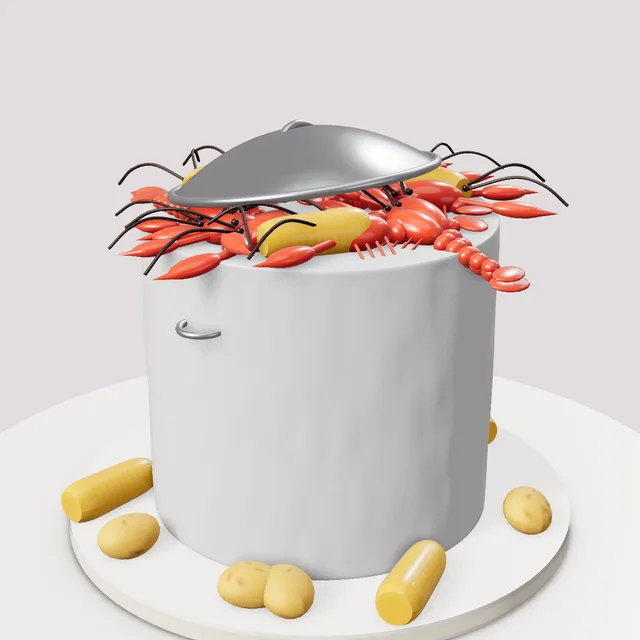
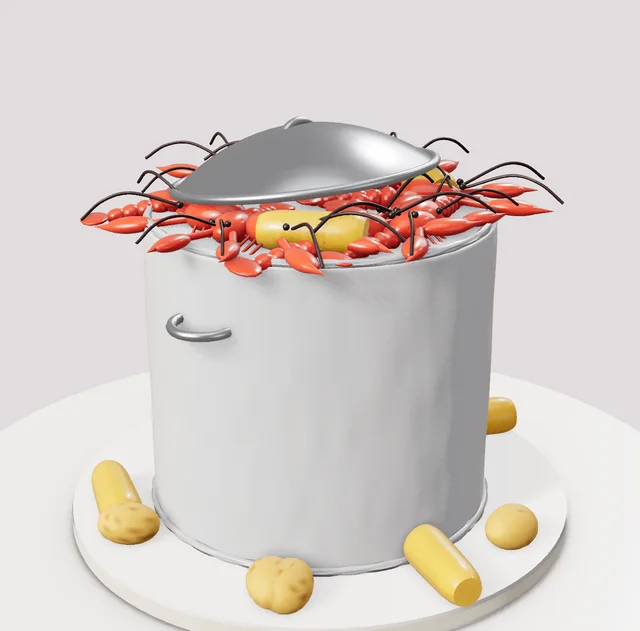
Signature cakes round 3: sports pieces fit, ruffles pearls and lace, crawfish pot rim
Claude-Session: https://claude.ai/code/session_016sN14hzH19WJ5zrp8o2QGp

diff --git a/studio.html b/studio.html
@@ -1573,10 +1573,10 @@ THEMES.unshift(
   newTier(7.5,3.2,{shape:'square',color:'#fbf7f1',finish:'fondant',texture:'ruffle',prof:'pillow',top:'none',bottom:'scrolls',bottomColor:'#d4ae5a'}),
   newTier(5.5,3.4,{color:'#c9ccd2',texture:'rosettes',prof:'dome',top:'none',bottom:'none',decor:[DC('roses','cluster',10,{color:'#fbf7f1',size:130})]})]}},
  {key:'sig_ruffles',name:'Forever Ruffles',tag:SIG,blurb:'Four ivory fondant tiers with a sweep of ruffles, a lace band and a clean top tier ready for your script topper.',d:{board:'silver',topper:'none',tiers:[
-  newTier(10,5,{color:'#fbf8f2',finish:'fondant',texture:'ruffle',top:'none',bottom:'none'}),
-  newTier(8,4.8,{color:'#fbf8f2',finish:'fondant',texture:'ruffle',top:'none',bottom:'none'}),
-  newTier(7,4.6,{color:'#fbf8f2',finish:'fondant',top:'none',bottom:'none',stencil:{pattern:'lace',color:'#e3d6c4',size:1.8,height:2}}),
-  newTier(6,5,{color:'#fbf8f2',finish:'fondant',top:'none',bottom:'none'})]}},
+  newTier(10,5,{color:'#fbf8f2',finish:'fondant',texture:'ruffle',top:'pearls',pipe:'#fbf8f2',bottom:'pearls',bottomColor:'#fbf8f2'}),
+  newTier(8,4.8,{color:'#fbf8f2',finish:'fondant',texture:'ruffle',top:'pearls',pipe:'#fbf8f2',bottom:'pearls',bottomColor:'#fbf8f2'}),
+  newTier(7,4.6,{color:'#fbf8f2',finish:'fondant',top:'pearls',pipe:'#fbf8f2',bottom:'pearls',bottomColor:'#fbf8f2',stencil:{pattern:'lace',color:'#cdb89a',size:2.2,height:3.2,y:.6}}),
+  newTier(6,5,{color:'#fbf8f2',finish:'fondant',texture:'dimple',top:'pearls',pipe:'#fbf8f2',bottom:'pearls',bottomColor:'#fbf8f2',decor:[DC('roses','crown',6,{color:'#fbf8f2',size:120})]})]}},
  {key:'sig_rosegold',name:'Rose Gold Jewels',tag:SIG,blurb:'Six tiers of quilted ivory, jeweled chain swags, a rose gold glitter tier and a rhinestone brooch burst.',d:{board:'rosegold',topper:'none',tiers:[
   newTier(12,5,{color:'#fbf8f2',finish:'fondant',side:'quilted',sideColor:'#fbf8f2',pearlColor:'#d9a08a',top:'none',bottom:'pearls',bottomColor:'#d9a08a',decor:[DC('brooch','band',1,{color:'#d9a08a',size:190,R:6,rot:95})]}),
   newTier(10,4.6,{color:'#fbf8f2',finish:'fondant',top:'none',bottom:'pearls',bottomColor:'#d9a08a'}),
@@ -1589,14 +1589,14 @@ THEMES.unshift(
   newTier(7.5,6.2,{color:'#6fb3e8',finish:'fondant',ombre:true,ombreColor:'#eef6fc',top:'none',bottom:'none',decor:[DC('clouds','scatter',12,{color:'#fbf7f1',size:150}),DC('buttons','cascade',46,{color:'#d4ae5a',rot:-25,size:150,wide:1.5})]}),
   newTier(6,5.6,{color:'#6fb3e8',finish:'fondant',ombre:true,ombreColor:'#eef6fc',top:'none',bottom:'none',decor:[DC('clouds','scatter',10,{color:'#fbf7f1',size:150}),DC('balloon','cluster',1,{color:'#7fb0e8',size:400,center:true,face:95}),DC('teddy','cluster',1,{color:'#fbf7f1',size:170,face:95})]})]}},
  {key:'sig_sports',name:'All-Star Sports Number',tag:SIG,blurb:'A field-green number cake with a soccer ball, baseball and glove, basketball, football and a wooden bat.',d:{cakeType:'number',number:{text:'2',height:13,layers:2,cake:'vanilla',cream:'#4f9a4a',style:'frosted'},board:'white',boardColor:'#e8762c',topper:'none',tiers:[
-  newTier(8,4,{decor:[DC('soccerball','cluster',1,{size:360}),DC('baseball2','cluster',1,{size:320}),DC('glove','cluster',1,{size:380}),DC('hoopball','cluster',1,{size:360}),DC('football','cluster',1,{size:330}),DC('bat','cluster',1,{size:250})]})]}},
+  newTier(8,4,{decor:[DC('glove','cluster',1,{size:300}),DC('hoopball','cluster',1,{size:270}),DC('soccerball','cluster',1,{size:250}),DC('football','cluster',1,{size:250}),DC('baseball2','cluster',1,{size:230}),DC('bat','cluster',1,{size:200}),DC('sprinkles','cluster',200,{mix:['#fbf7f1','#f2c230','#e8762c']})]})]}},
  {key:'sig_blocks',name:'Building Block Number',tag:SIG,blurb:'A sunny yellow number 6 with a blue window, a mosaic wall of toy bricks around the side, rainbow sprinkles and bricks on top.',d:{cakeType:'number',number:{text:'6',height:13,layers:2,cake:'vanilla',cream:'#f6c919',style:'frosted',wall:['#e8475f','#2f6fd0','#f2c230','#5cc06c','#2f6fd0','#e8475f','#2a7a3a'],wallH:.95,holeFill:'#2f6fd0'},board:'white',boardColor:'#2f3f6b',topper:'none',tiers:[
   newTier(8,4,{decor:[DC('bricks','cluster',18,{size:250,mix:['#e8475f','#2f6fd0','#5cc06c']}),DC('sprinkles','cluster',260,{mix:['#e8475f','#2f6fd0','#5cc06c','#f28a3a','#fbf7f1']})]})]}},
  {key:'sig_movie',name:'Movie Night Popcorn',tag:SIG,blurb:'A red and white striped popcorn tier overflowing with popcorn and a "13" Admit One ticket, over a black and white chevron clapperboard tier with stars.',d:{board:'gold',topper:'none',tiers:[
   newTier(9,4.6,{color:'#fbf7f1',finish:'fondant',top:'none',bottom:'none',stencil:{pattern:'chevron',color:'#1d1b1f',size:1.4,height:4.6},decor:[DC('clapper','band',1,{size:210,rot:95}),DC('stars','scatter',12,{mix:['#f3a6c0','#7fd3cc','#f2c230'],size:150}),DC('dragees','scatter',20,{color:'#f2c230',size:140})]}),
   newTier(6.5,5.6,{color:'#fbf7f1',finish:'fondant',stencil:{pattern:'stripes',color:'#d62839',size:1.2,height:5.4},top:'rope',pipe:'#fbf7f1',bottom:'none',decor:[DC('popcorn','cluster',70,{color:'#f8efd4',size:260}),DC('ticket','cluster',1,{color:'#f6cf5a',size:300,center:true,face:95}),DC('stars','cluster',6,{mix:['#f3a6c0','#7fd3cc','#f2c230'],size:150})]})]}},
  {key:'sig_crawfish',name:'Crawfish Boil Pot',tag:SIG,blurb:'A brushed silver stock pot cake with a tilted lid and loop handles, spilling over with crawfish and corn, with potatoes and corn on the board.',d:{board:'white',boardColor:'#ece5d3',topper:'none',tiers:[
-  newTier(8,7,{color:'#c4c8ce',finish:'fondant',texture:'brushed',top:'none',bottom:'none',decor:[DC('pothandle','band',2,{color:'#c9ccd2',size:110,y:2,rot:95}),DC('potlid2','cluster',1,{color:'#c9ccd2',size:300,center:true}),DC('crawfish','crown',9,{color:'#d2381e',size:300}),DC('corncob','crown',3,{color:'#eeb31c',size:250,rot:60}),DC('crawfish','cascade',4,{color:'#d2381e',rot:100,size:260}),DC('corncob','cluster',3,{color:'#eeb31c',size:260,where:'board'}),DC('potato','cluster',4,{color:'#d9a441',size:260,where:'board'})]})]}},
+  newTier(8,7,{color:'#c4c8ce',finish:'fondant',texture:'brushed',top:'rope',pipe:'#aeb2b8',bottom:'rope',bottomColor:'#aeb2b8',decor:[DC('pothandle','band',2,{color:'#c9ccd2',size:160,y:2,rot:95}),DC('potlid2','cluster',1,{color:'#c9ccd2',size:300,center:true}),DC('crawfish','crown',9,{color:'#d2381e',size:300}),DC('corncob','crown',3,{color:'#eeb31c',size:250,rot:60}),DC('crawfish','cascade',4,{color:'#d2381e',rot:100,size:260}),DC('corncob','cluster',3,{color:'#eeb31c',size:260,where:'board'}),DC('potato','cluster',4,{color:'#d9a441',size:260,where:'board'})]})]}},
  {key:'sig_bee',name:'Bumble Bee Garden',tag:SIG,blurb:'A fuzzy black piped bee with a big smiling face, wings and looped antennae, resting in a garden of piped grass and sugar flowers.',d:{board:'white',boardColor:'#c9d96a',topper:'none',tiers:[
   newTier(12,1.8,{color:'#5cae4a',texture:'grass',top:'none',bottom:'none',decor:[DC('daisies','scatter',10,{color:'#fbf7f1',size:130}),DC('blossoms','scatter',16,{mix:['#f3a6c0','#f2c230','#7fb0e8','#e8475f'],size:130})]}),
   newTier(8,4.6,{color:'#1d1b1f',texture:'fur',top:'none',bottom:'none',decor:[DC('beeface','band',1,{color:'#ffd21f',size:330,R:4,rot:55,y:-.2}),DC('beetop','cluster',1,{color:'#ffd21f',size:230,center:true,face:95})]})]}},

diff --git a/tools/signature-decor.js b/tools/signature-decor.js
@@ -241,10 +241,10 @@ THEMES.unshift(
   newTier(7.5,3.2,{shape:'square',color:'#fbf7f1',finish:'fondant',texture:'ruffle',prof:'pillow',top:'none',bottom:'scrolls',bottomColor:'#d4ae5a'}),
   newTier(5.5,3.4,{color:'#c9ccd2',texture:'rosettes',prof:'dome',top:'none',bottom:'none',decor:[DC('roses','cluster',10,{color:'#fbf7f1',size:130})]})]}},
  {key:'sig_ruffles',name:'Forever Ruffles',tag:SIG,blurb:'Four ivory fondant tiers with a sweep of ruffles, a lace band and a clean top tier ready for your script topper.',d:{board:'silver',topper:'none',tiers:[
-  newTier(10,5,{color:'#fbf8f2',finish:'fondant',texture:'ruffle',top:'none',bottom:'none'}),
-  newTier(8,4.8,{color:'#fbf8f2',finish:'fondant',texture:'ruffle',top:'none',bottom:'none'}),
-  newTier(7,4.6,{color:'#fbf8f2',finish:'fondant',top:'none',bottom:'none',stencil:{pattern:'lace',color:'#e3d6c4',size:1.8,height:2}}),
-  newTier(6,5,{color:'#fbf8f2',finish:'fondant',top:'none',bottom:'none'})]}},
+  newTier(10,5,{color:'#fbf8f2',finish:'fondant',texture:'ruffle',top:'pearls',pipe:'#fbf8f2',bottom:'pearls',bottomColor:'#fbf8f2'}),
+  newTier(8,4.8,{color:'#fbf8f2',finish:'fondant',texture:'ruffle',top:'pearls',pipe:'#fbf8f2',bottom:'pearls',bottomColor:'#fbf8f2'}),
+  newTier(7,4.6,{color:'#fbf8f2',finish:'fondant',top:'pearls',pipe:'#fbf8f2',bottom:'pearls',bottomColor:'#fbf8f2',stencil:{pattern:'lace',color:'#cdb89a',size:2.2,height:3.2,y:.6}}),
+  newTier(6,5,{color:'#fbf8f2',finish:'fondant',texture:'dimple',top:'pearls',pipe:'#fbf8f2',bottom:'pearls',bottomColor:'#fbf8f2',decor:[DC('roses','crown',6,{color:'#fbf8f2',size:120})]})]}},
  {key:'sig_rosegold',name:'Rose Gold Jewels',tag:SIG,blurb:'Six tiers of quilted ivory, jeweled chain swags, a rose gold glitter tier and a rhinestone brooch burst.',d:{board:'rosegold',topper:'none',tiers:[
   newTier(12,5,{color:'#fbf8f2',finish:'fondant',side:'quilted',sideColor:'#fbf8f2',pearlColor:'#d9a08a',top:'none',bottom:'pearls',bottomColor:'#d9a08a',decor:[DC('brooch','band',1,{color:'#d9a08a',size:190,R:6,rot:95})]}),
   newTier(10,4.6,{color:'#fbf8f2',finish:'fondant',top:'none',bottom:'pearls',bottomColor:'#d9a08a'}),
@@ -257,14 +257,14 @@ THEMES.unshift(
   newTier(7.5,6.2,{color:'#6fb3e8',finish:'fondant',ombre:true,ombreColor:'#eef6fc',top:'none',bottom:'none',decor:[DC('clouds','scatter',12,{color:'#fbf7f1',size:150}),DC('buttons','cascade',46,{color:'#d4ae5a',rot:-25,size:150,wide:1.5})]}),
   newTier(6,5.6,{color:'#6fb3e8',finish:'fondant',ombre:true,ombreColor:'#eef6fc',top:'none',bottom:'none',decor:[DC('clouds','scatter',10,{color:'#fbf7f1',size:150}),DC('balloon','cluster',1,{color:'#7fb0e8',size:400,center:true,face:95}),DC('teddy','cluster',1,{color:'#fbf7f1',size:170,face:95})]})]}},
  {key:'sig_sports',name:'All-Star Sports Number',tag:SIG,blurb:'A field-green number cake with a soccer ball, baseball and glove, basketball, football and a wooden bat.',d:{cakeType:'number',number:{text:'2',height:13,layers:2,cake:'vanilla',cream:'#4f9a4a',style:'frosted'},board:'white',boardColor:'#e8762c',topper:'none',tiers:[
-  newTier(8,4,{decor:[DC('soccerball','cluster',1,{size:360}),DC('baseball2','cluster',1,{size:320}),DC('glove','cluster',1,{size:380}),DC('hoopball','cluster',1,{size:360}),DC('football','cluster',1,{size:330}),DC('bat','cluster',1,{size:250})]})]}},
+  newTier(8,4,{decor:[DC('glove','cluster',1,{size:300}),DC('hoopball','cluster',1,{size:270}),DC('soccerball','cluster',1,{size:250}),DC('football','cluster',1,{size:250}),DC('baseball2','cluster',1,{size:230}),DC('bat','cluster',1,{size:200}),DC('sprinkles','cluster',200,{mix:['#fbf7f1','#f2c230','#e8762c']})]})]}},
  {key:'sig_blocks',name:'Building Block Number',tag:SIG,blurb:'A sunny yellow number 6 with a blue window, a mosaic wall of toy bricks around the side, rainbow sprinkles and bricks on top.',d:{cakeType:'number',number:{text:'6',height:13,layers:2,cake:'vanilla',cream:'#f6c919',style:'frosted',wall:['#e8475f','#2f6fd0','#f2c230','#5cc06c','#2f6fd0','#e8475f','#2a7a3a'],wallH:.95,holeFill:'#2f6fd0'},board:'white',boardColor:'#2f3f6b',topper:'none',tiers:[
   newTier(8,4,{decor:[DC('bricks','cluster',18,{size:250,mix:['#e8475f','#2f6fd0','#5cc06c']}),DC('sprinkles','cluster',260,{mix:['#e8475f','#2f6fd0','#5cc06c','#f28a3a','#fbf7f1']})]})]}},
  {key:'sig_movie',name:'Movie Night Popcorn',tag:SIG,blurb:'A red and white striped popcorn tier overflowing with popcorn and a "13" Admit One ticket, over a black and white chevron clapperboard tier with stars.',d:{board:'gold',topper:'none',tiers:[
   newTier(9,4.6,{color:'#fbf7f1',finish:'fondant',top:'none',bottom:'none',stencil:{pattern:'chevron',color:'#1d1b1f',size:1.4,height:4.6},decor:[DC('clapper','band',1,{size:210,rot:95}),DC('stars','scatter',12,{mix:['#f3a6c0','#7fd3cc','#f2c230'],size:150}),DC('dragees','scatter',20,{color:'#f2c230',size:140})]}),
   newTier(6.5,5.6,{color:'#fbf7f1',finish:'fondant',stencil:{pattern:'stripes',color:'#d62839',size:1.2,height:5.4},top:'rope',pipe:'#fbf7f1',bottom:'none',decor:[DC('popcorn','cluster',70,{color:'#f8efd4',size:260}),DC('ticket','cluster',1,{color:'#f6cf5a',size:300,center:true,face:95}),DC('stars','cluster',6,{mix:['#f3a6c0','#7fd3cc','#f2c230'],size:150})]})]}},
  {key:'sig_crawfish',name:'Crawfish Boil Pot',tag:SIG,blurb:'A brushed silver stock pot cake with a tilted lid and loop handles, spilling over with crawfish and corn, with potatoes and corn on the board.',d:{board:'white',boardColor:'#ece5d3',topper:'none',tiers:[
-  newTier(8,7,{color:'#c4c8ce',finish:'fondant',texture:'brushed',top:'none',bottom:'none',decor:[DC('pothandle','band',2,{color:'#c9ccd2',size:110,y:2,rot:95}),DC('potlid2','cluster',1,{color:'#c9ccd2',size:300,center:true}),DC('crawfish','crown',9,{color:'#d2381e',size:300}),DC('corncob','crown',3,{color:'#eeb31c',size:250,rot:60}),DC('crawfish','cascade',4,{color:'#d2381e',rot:100,size:260}),DC('corncob','cluster',3,{color:'#eeb31c',size:260,where:'board'}),DC('potato','cluster',4,{color:'#d9a441',size:260,where:'board'})]})]}},
+  newTier(8,7,{color:'#c4c8ce',finish:'fondant',texture:'brushed',top:'rope',pipe:'#aeb2b8',bottom:'rope',bottomColor:'#aeb2b8',decor:[DC('pothandle','band',2,{color:'#c9ccd2',size:160,y:2,rot:95}),DC('potlid2','cluster',1,{color:'#c9ccd2',size:300,center:true}),DC('crawfish','crown',9,{color:'#d2381e',size:300}),DC('corncob','crown',3,{color:'#eeb31c',size:250,rot:60}),DC('crawfish','cascade',4,{color:'#d2381e',rot:100,size:260}),DC('corncob','cluster',3,{color:'#eeb31c',size:260,where:'board'}),DC('potato','cluster',4,{color:'#d9a441',size:260,where:'board'})]})]}},
  {key:'sig_bee',name:'Bumble Bee Garden',tag:SIG,blurb:'A fuzzy black piped bee with a big smiling face, wings and looped antennae, resting in a garden of piped grass and sugar flowers.',d:{board:'white',boardColor:'#c9d96a',topper:'none',tiers:[
   newTier(12,1.8,{color:'#5cae4a',texture:'grass',top:'none',bottom:'none',decor:[DC('daisies','scatter',10,{color:'#fbf7f1',size:130}),DC('blossoms','scatter',16,{mix:['#f3a6c0','#f2c230','#7fb0e8','#e8475f'],size:130})]}),
   newTier(8,4.6,{color:'#1d1b1f',texture:'fur',top:'none',bottom:'none',decor:[DC('beeface','band',1,{color:'#ffd21f',size:330,R:4,rot:55,y:-.2}),DC('beetop','cluster',1,{color:'#ffd21f',size:230,center:true,face:95})]})]}},

diff --git a/tools/sig-themes.js b/tools/sig-themes.js
@@ -28,10 +28,10 @@ THEMES.unshift(
   newTier(7.5,3.2,{shape:'square',color:'#fbf7f1',finish:'fondant',texture:'ruffle',prof:'pillow',top:'none',bottom:'scrolls',bottomColor:'#d4ae5a'}),
   newTier(5.5,3.4,{color:'#c9ccd2',texture:'rosettes',prof:'dome',top:'none',bottom:'none',decor:[DC('roses','cluster',10,{color:'#fbf7f1',size:130})]})]}},
  {key:'sig_ruffles',name:'Forever Ruffles',tag:SIG,blurb:'Four ivory fondant tiers with a sweep of ruffles, a lace band and a clean top tier ready for your script topper.',d:{board:'silver',topper:'none',tiers:[
-  newTier(10,5,{color:'#fbf8f2',finish:'fondant',texture:'ruffle',top:'none',bottom:'none'}),
-  newTier(8,4.8,{color:'#fbf8f2',finish:'fondant',texture:'ruffle',top:'none',bottom:'none'}),
-  newTier(7,4.6,{color:'#fbf8f2',finish:'fondant',top:'none',bottom:'none',stencil:{pattern:'lace',color:'#e3d6c4',size:1.8,height:2}}),
-  newTier(6,5,{color:'#fbf8f2',finish:'fondant',top:'none',bottom:'none'})]}},
+  newTier(10,5,{color:'#fbf8f2',finish:'fondant',texture:'ruffle',top:'pearls',pipe:'#fbf8f2',bottom:'pearls',bottomColor:'#fbf8f2'}),
+  newTier(8,4.8,{color:'#fbf8f2',finish:'fondant',texture:'ruffle',top:'pearls',pipe:'#fbf8f2',bottom:'pearls',bottomColor:'#fbf8f2'}),
+  newTier(7,4.6,{color:'#fbf8f2',finish:'fondant',top:'pearls',pipe:'#fbf8f2',bottom:'pearls',bottomColor:'#fbf8f2',stencil:{pattern:'lace',color:'#cdb89a',size:2.2,height:3.2,y:.6}}),
+  newTier(6,5,{color:'#fbf8f2',finish:'fondant',texture:'dimple',top:'pearls',pipe:'#fbf8f2',bottom:'pearls',bottomColor:'#fbf8f2',decor:[DC('roses','crown',6,{color:'#fbf8f2',size:120})]})]}},
  {key:'sig_rosegold',name:'Rose Gold Jewels',tag:SIG,blurb:'Six tiers of quilted ivory, jeweled chain swags, a rose gold glitter tier and a rhinestone brooch burst.',d:{board:'rosegold',topper:'none',tiers:[
   newTier(12,5,{color:'#fbf8f2',finish:'fondant',side:'quilted',sideColor:'#fbf8f2',pearlColor:'#d9a08a',top:'none',bottom:'pearls',bottomColor:'#d9a08a',decor:[DC('brooch','band',1,{color:'#d9a08a',size:190,R:6,rot:95})]}),
   newTier(10,4.6,{color:'#fbf8f2',finish:'fondant',top:'none',bottom:'pearls',bottomColor:'#d9a08a'}),
@@ -44,14 +44,14 @@ THEMES.unshift(
   newTier(7.5,6.2,{color:'#6fb3e8',finish:'fondant',ombre:true,ombreColor:'#eef6fc',top:'none',bottom:'none',decor:[DC('clouds','scatter',12,{color:'#fbf7f1',size:150}),DC('buttons','cascade',46,{color:'#d4ae5a',rot:-25,size:150,wide:1.5})]}),
   newTier(6,5.6,{color:'#6fb3e8',finish:'fondant',ombre:true,ombreColor:'#eef6fc',top:'none',bottom:'none',decor:[DC('clouds','scatter',10,{color:'#fbf7f1',size:150}),DC('balloon','cluster',1,{color:'#7fb0e8',size:400,center:true,face:95}),DC('teddy','cluster',1,{color:'#fbf7f1',size:170,face:95})]})]}},
  {key:'sig_sports',name:'All-Star Sports Number',tag:SIG,blurb:'A field-green number cake with a soccer ball, baseball and glove, basketball, football and a wooden bat.',d:{cakeType:'number',number:{text:'2',height:13,layers:2,cake:'vanilla',cream:'#4f9a4a',style:'frosted'},board:'white',boardColor:'#e8762c',topper:'none',tiers:[
-  newTier(8,4,{decor:[DC('soccerball','cluster',1,{size:360}),DC('baseball2','cluster',1,{size:320}),DC('glove','cluster',1,{size:380}),DC('hoopball','cluster',1,{size:360}),DC('football','cluster',1,{size:330}),DC('bat','cluster',1,{size:250})]})]}},
+  newTier(8,4,{decor:[DC('glove','cluster',1,{size:300}),DC('hoopball','cluster',1,{size:270}),DC('soccerball','cluster',1,{size:250}),DC('football','cluster',1,{size:250}),DC('baseball2','cluster',1,{size:230}),DC('bat','cluster',1,{size:200}),DC('sprinkles','cluster',200,{mix:['#fbf7f1','#f2c230','#e8762c']})]})]}},
  {key:'sig_blocks',name:'Building Block Number',tag:SIG,blurb:'A sunny yellow number 6 with a blue window, a mosaic wall of toy bricks around the side, rainbow sprinkles and bricks on top.',d:{cakeType:'number',number:{text:'6',height:13,layers:2,cake:'vanilla',cream:'#f6c919',style:'frosted',wall:['#e8475f','#2f6fd0','#f2c230','#5cc06c','#2f6fd0','#e8475f','#2a7a3a'],wallH:.95,holeFill:'#2f6fd0'},board:'white',boardColor:'#2f3f6b',topper:'none',tiers:[
   newTier(8,4,{decor:[DC('bricks','cluster',18,{size:250,mix:['#e8475f','#2f6fd0','#5cc06c']}),DC('sprinkles','cluster',260,{mix:['#e8475f','#2f6fd0','#5cc06c','#f28a3a','#fbf7f1']})]})]}},
  {key:'sig_movie',name:'Movie Night Popcorn',tag:SIG,blurb:'A red and white striped popcorn tier overflowing with popcorn and a "13" Admit One ticket, over a black and white chevron clapperboard tier with stars.',d:{board:'gold',topper:'none',tiers:[
   newTier(9,4.6,{color:'#fbf7f1',finish:'fondant',top:'none',bottom:'none',stencil:{pattern:'chevron',color:'#1d1b1f',size:1.4,height:4.6},decor:[DC('clapper','band',1,{size:210,rot:95}),DC('stars','scatter',12,{mix:['#f3a6c0','#7fd3cc','#f2c230'],size:150}),DC('dragees','scatter',20,{color:'#f2c230',size:140})]}),
   newTier(6.5,5.6,{color:'#fbf7f1',finish:'fondant',stencil:{pattern:'stripes',color:'#d62839',size:1.2,height:5.4},top:'rope',pipe:'#fbf7f1',bottom:'none',decor:[DC('popcorn','cluster',70,{color:'#f8efd4',size:260}),DC('ticket','cluster',1,{color:'#f6cf5a',size:300,center:true,face:95}),DC('stars','cluster',6,{mix:['#f3a6c0','#7fd3cc','#f2c230'],size:150})]})]}},
  {key:'sig_crawfish',name:'Crawfish Boil Pot',tag:SIG,blurb:'A brushed silver stock pot cake with a tilted lid and loop handles, spilling over with crawfish and corn, with potatoes and corn on the board.',d:{board:'white',boardColor:'#ece5d3',topper:'none',tiers:[
-  newTier(8,7,{color:'#c4c8ce',finish:'fondant',texture:'brushed',top:'none',bottom:'none',decor:[DC('pothandle','band',2,{color:'#c9ccd2',size:110,y:2,rot:95}),DC('potlid2','cluster',1,{color:'#c9ccd2',size:300,center:true}),DC('crawfish','crown',9,{color:'#d2381e',size:300}),DC('corncob','crown',3,{color:'#eeb31c',size:250,rot:60}),DC('crawfish','cascade',4,{color:'#d2381e',rot:100,size:260}),DC('corncob','cluster',3,{color:'#eeb31c',size:260,where:'board'}),DC('potato','cluster',4,{color:'#d9a441',size:260,where:'board'})]})]}},
+  newTier(8,7,{color:'#c4c8ce',finish:'fondant',texture:'brushed',top:'rope',pipe:'#aeb2b8',bottom:'rope',bottomColor:'#aeb2b8',decor:[DC('pothandle','band',2,{color:'#c9ccd2',size:160,y:2,rot:95}),DC('potlid2','cluster',1,{color:'#c9ccd2',size:300,center:true}),DC('crawfish','crown',9,{color:'#d2381e',size:300}),DC('corncob','crown',3,{color:'#eeb31c',size:250,rot:60}),DC('crawfish','cascade',4,{color:'#d2381e',rot:100,size:260}),DC('corncob','cluster',3,{color:'#eeb31c',size:260,where:'board'}),DC('potato','cluster',4,{color:'#d9a441',size:260,where:'board'})]})]}},
  {key:'sig_bee',name:'Bumble Bee Garden',tag:SIG,blurb:'A fuzzy black piped bee with a big smiling face, wings and looped antennae, resting in a garden of piped grass and sugar flowers.',d:{board:'white',boardColor:'#c9d96a',topper:'none',tiers:[
   newTier(12,1.8,{color:'#5cae4a',texture:'grass',top:'none',bottom:'none',decor:[DC('daisies','scatter',10,{color:'#fbf7f1',size:130}),DC('blossoms','scatter',16,{mix:['#f3a6c0','#f2c230','#7fb0e8','#e8475f'],size:130})]}),
   newTier(8,4.6,{color:'#1d1b1f',texture:'fur',top:'none',bottom:'none',decor:[DC('beeface','band',1,{color:'#ffd21f',size:330,R:4,rot:55,y:-.2}),DC('beetop','cluster',1,{color:'#ffd21f',size:230,center:true,face:95})]})]}},
